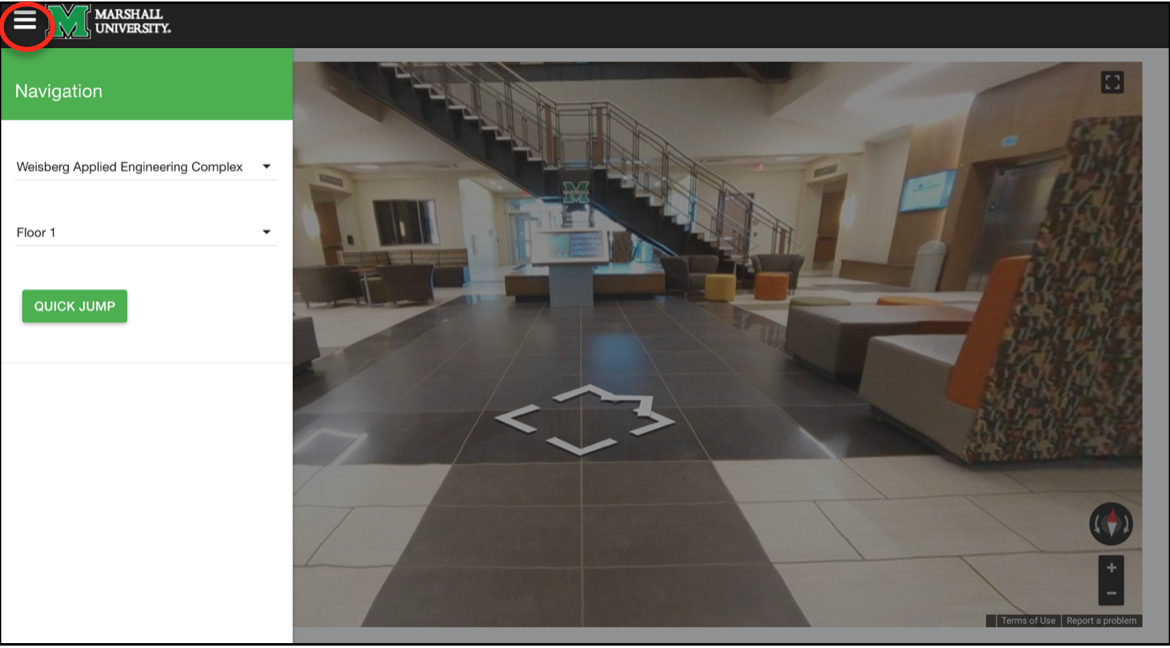
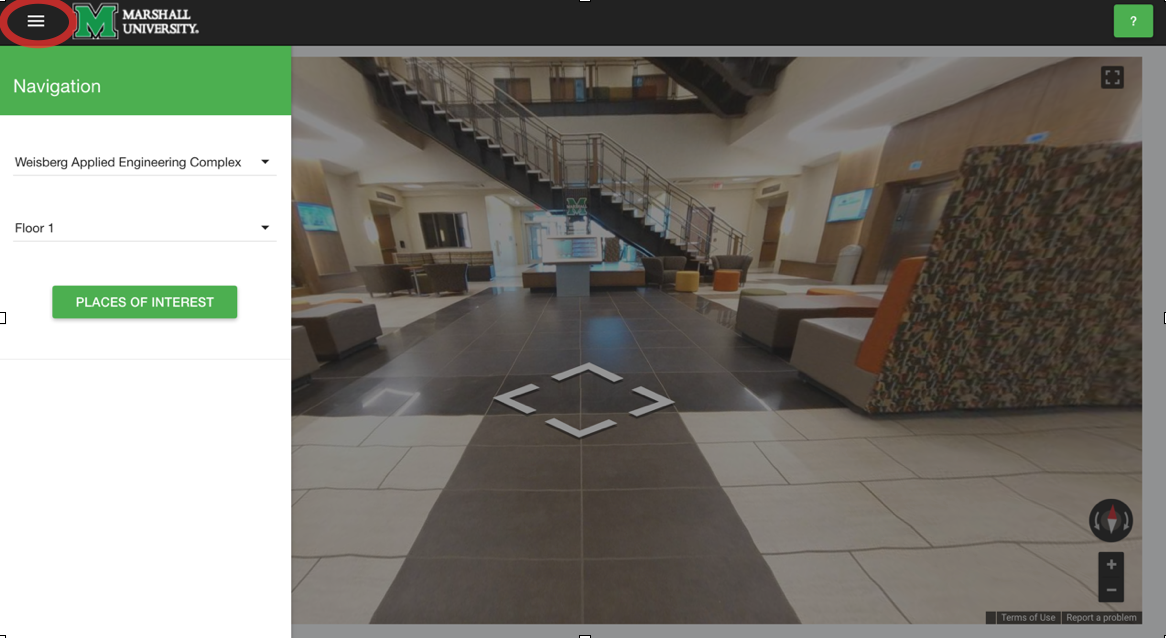
Fixed places of interest help

diff --git a/public/js/pages/help.html b/public/js/pages/help.html
@@ -39,18 +39,18 @@
           <span class="md-headline">Clicking on the dropdown menu directly under the building picker dropdown, will allow you to change your floor within the building you are already in.</span>
           <br></br>
           <br></br>   
-          <span class="md-headline" style="font-weight:bold">Quick Jump</span>
+          <span class="md-headline" style="font-weight:bold">Places of Interest</span>
           <br></br>
           <img src="images/quickJump.png" alt="Quick Jump"></img>
           <br></br>
-          <span class="md-headline">The last feature of the tour is related to the 'Quick Jump' feature.  To activate the feature, click on the 'Quick Jump' button (circled in red).</span>
+          <span class="md-headline">The last feature of the tour is related to the 'Places of Interest' feature.  To activate the feature, click on the 'Places of Interest' button (circled in red).</span>
           <br></br>
           <br></br>
-          <span class="md-headline" style="font-weight:bold">Quick Jump</span>
+          <span class="md-headline" style="font-weight:bold">Places of Interest</span>
           <br></br>
           <img src="images/quickJump2.png" alt="Quick Jump"></img>
           <br></br>
-          <span class="md-headline">Clicking on the 'Quick Jump' button will bring up the 'Quick Jump' menu, which displays places of interest in your current building.  After selecting a place of interest, you will be transported to that place and corresponding information, about that room, will be displayed in the 'Information' container below the 'Quick Jump' button..</span>
+          <span class="md-headline">Clicking on the 'Places of Interest' button will bring up the 'Places of Interest' menu, which displays places of interest in your current building.  After selecting a place of interest, you will be transported to that place and corresponding information, about that room, will be displayed in the 'Information' container below the 'Places of Interest' button..</span>
           <br></br>
           <br></br>                    
     </div>    
